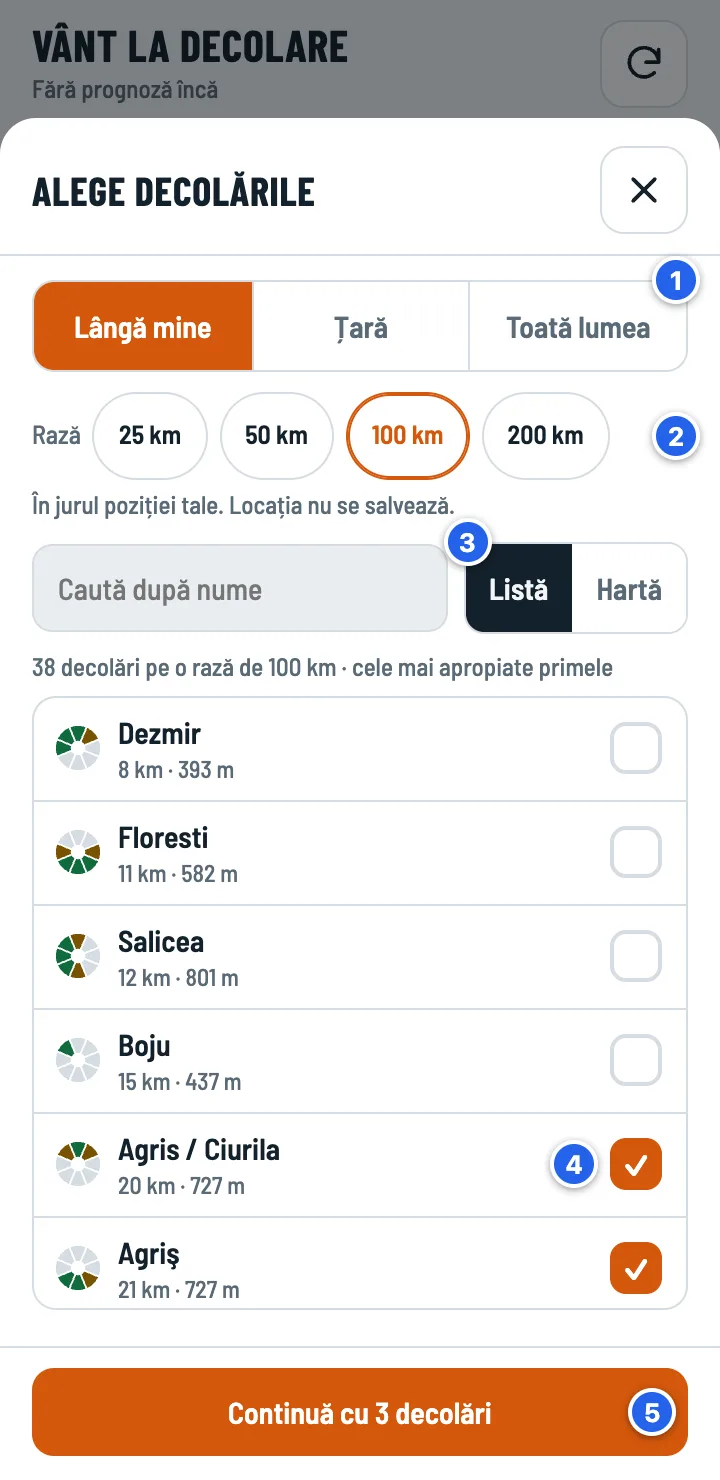
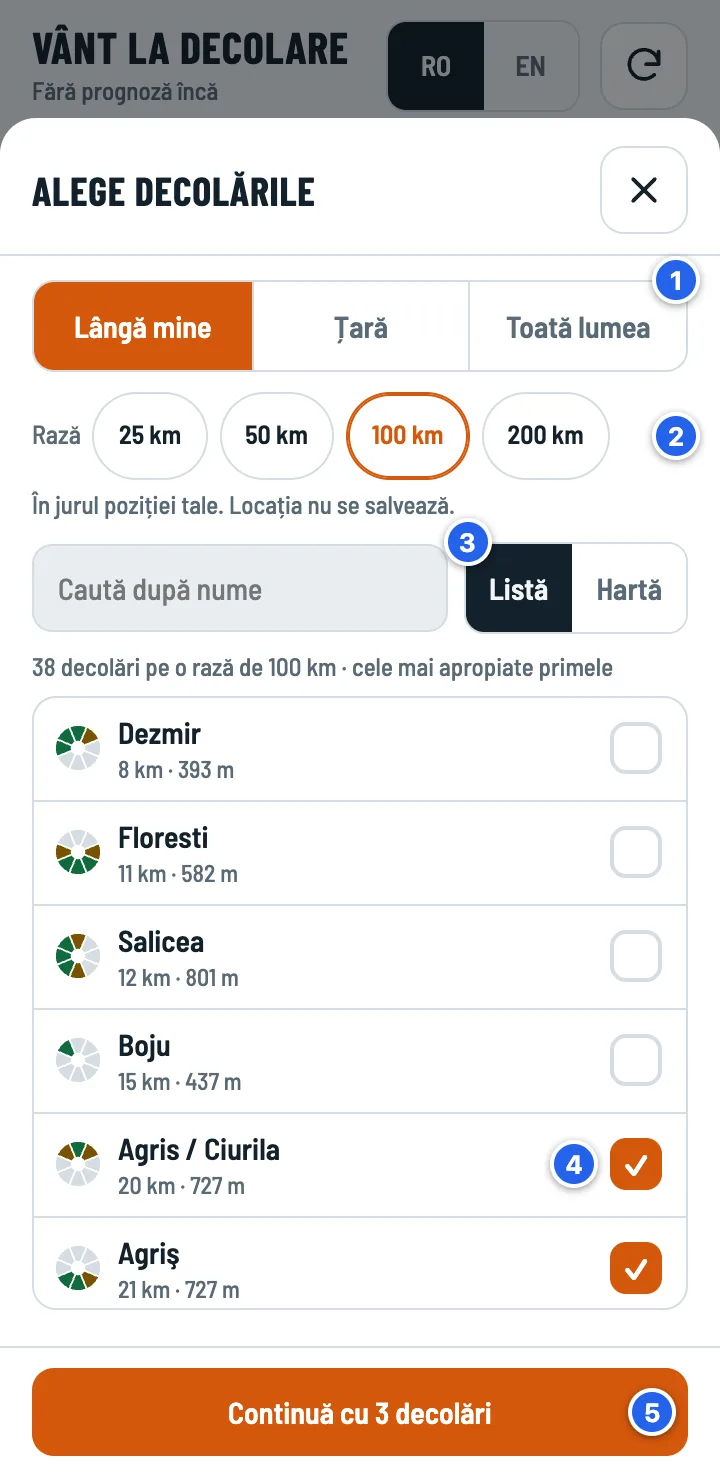
Limba se schimbă oricând de pe ecranul principal: RO | EN lângă ↻
Cerut: limba trebuie schimbată oricând din ecranul principal, nu doar din Setări sau din
ecranul de bun venit. Linkurile reîncarcă pagina cu ?lang= (alegerea se ține minte).
Ghidul: pas nou pe tablă + capturi refăcute.

Claude-Session: https://claude.ai/code/session_01AHnFa6r7pKe7n6SbnXpaSQ

diff --git a/docs/index.html b/docs/index.html
@@ -53,6 +53,7 @@ button{cursor:pointer}
 /* Bara de sus */
 .top{display:flex;align-items:center;gap:10px;padding:10px 16px 6px}
 .brand{flex:1;min-width:0}
+.toplang a{padding:0 11px;font-size:14px}
 .brand h1{margin:0;font:700 22px/1 var(--f-display);letter-spacing:.02em;text-transform:uppercase}
 .brand p{margin:3px 0 0;color:var(--muted);font-size:12.5px;white-space:nowrap;overflow:hidden;text-overflow:ellipsis}
 .iconbtn{display:grid;place-items:center;width:44px;height:44px;border-radius:12px;border:1px solid var(--line);background:var(--surface)}
@@ -323,6 +324,7 @@ details.hfbox .hf-in{padding:0 12px 12px}
       <h1>Vânt la Decolare</h1>
       <p id="status">Se încarcă prognoza…</p>
     </div>
+    <div class="seg2 lang toplang" id="topLang" role="group" aria-label="Limba"><a href="?lang=ro" data-lang="ro" lang="ro" aria-label="Română">RO</a><a href="?lang=en" data-lang="en" lang="en" aria-label="English">EN</a></div>
     <button class="iconbtn" id="refresh" aria-label="Reîmprospătează prognoza"><svg viewBox="0 0 24 24"><path d="M20 11a8 8 0 1 0-2.3 5.7"/><path d="M20 4v7h-7"/></svg></button>
   </div>
   <div class="banner" id="banner" hidden></div>
@@ -527,9 +529,9 @@ function translateStatic(){
     for (const a of document.querySelectorAll('a[href^="ghid.html"]')) a.href = a.getAttribute('href').replace('ghid.html', GUIDE);
   }
   $('#ver').textContent = t('Versiunea {v}', {v: VERSION});
-  for (const a of document.querySelectorAll('#langSeg a')) a.setAttribute('aria-current', String(a.dataset.lang === LANG));
+  for (const a of document.querySelectorAll('#langSeg a, #topLang a')) a.setAttribute('aria-current', String(a.dataset.lang === LANG));
 }
-const VERSION = '63ddbeb';
+const VERSION = '6347895';
 const SKY_ICONS = {"sun":[{"d":"M12 7.5 A4.5 4.5 0 1 0 12 16.5 A4.5 4.5 0 1 0 12 7.5 Z","r":"sun","f":1},{"d":"M12 2 V4.2 M12 19.8 V22 M2 12 H4.2 M19.8 12 H22 M4.9 4.9 L6.5 6.5 M17.5 17.5 L19.1 19.1 M4.9 19.1 L6.5 17.5 M17.5 6.5 L19.1 4.9","r":"sun"}],"moon":[{"d":"M19.5 14.6 A7.8 7.8 0 1 1 9.4 4.5 A6.2 6.2 0 0 0 19.5 14.6 Z","r":"ink"}],"partly":[{"d":"M6.03 10.77 A3.5 3.5 0 1 1 12 8.3","r":"sun"},{"d":"M8.5 2.6 V3.9 M2.6 8.3 H3.9 M4.3 4.1 L5.2 5 M12.7 4.1 L11.8 5","r":"sun"},{"d":"M9.5 20 H17.7 A3.4 3.4 0 0 0 18.2 13.23 A4.6 4.6 0 0 0 9.3 12.3 A3.85 3.85 0 0 0 9.5 20 Z","r":"ink"}],"cloud":[{"d":"M7 19 H17.2 A4.3 4.3 0 0 0 17.8 10.44 A5.8 5.8 0 0 0 6.6 9.9 A4.6 4.6 0 0 0 7 19 Z","r":"ink"}],"overcast":[{"d":"M5.2 14.2 A3.6 3.6 0 0 1 6.4 7.3 A5 5 0 0 1 15.6 6.4","r":"ink"},{"d":"M8 20.5 H17.5 A3.6 3.6 0 0 0 18 13.33 A5 5 0 0 0 8.2 12.4 A4.05 4.05 0 0 0 8 20.5 Z","r":"ink"}],"cumulus":[{"d":"M3.5 19 H20.5","r":"ink"},{"d":"M5.5 19 A3 3 0 0 1 6.5 13.2 A3.6 3.6 0 0 1 11.5 8.5 A4 4 0 0 1 18 12 A3.6 3.6 0 0 1 18.5 19","r":"ink"},{"d":"M20 3.6 A1.9 1.9 0 1 0 20 7.4 A1.9 1.9 0 1 0 20 3.6 Z","r":"sun","f":1}],"cirrus":[{"d":"M2.5 11 C6.5 8 10 13 15 10 M4.5 15.5 C8.5 13 12.5 17.5 20.5 14 M2.5 20 C5.5 18.5 8.5 21 12.5 19.5","r":"ink"},{"d":"M18 3.6 A2.3 2.3 0 1 0 18 8.2 A2.3 2.3 0 1 0 18 3.6 Z","r":"sun","f":1}],"fog":[{"d":"M4 7 H20 M6 11 H18 M4 15 H20 M7 19 H17","r":"ink"}],"rain":[{"d":"M7 15 H17.2 A4.3 4.3 0 0 0 17.8 6.44 A5.8 5.8 0 0 0 6.6 5.9 A4.6 4.6 0 0 0 7 15 Z","r":"ink"},{"d":"M8.5 18 L7.5 21 M12.5 18 L11.5 21 M16.5 18 L15.5 21","r":"water"}],"thunder":[{"d":"M7 15 H17.2 A4.3 4.3 0 0 0 17.8 6.44 A5.8 5.8 0 0 0 6.6 5.9 A4.6 4.6 0 0 0 7 15 Z","r":"ink"},{"d":"M13 14.5 L10.5 18.5 H13.5 L11.5 22.5","r":"sun"}],"snow":[{"d":"M7 15 H17.2 A4.3 4.3 0 0 0 17.8 6.44 A5.8 5.8 0 0 0 6.6 5.9 A4.6 4.6 0 0 0 7 15 Z","r":"ink"},{"d":"M8 18.5 V18.6 M12 19.5 V19.6 M16 18.5 V18.6 M10 22 V22.1 M14 22 V22.1","r":"water"}]};
 let HOLFUY = [];   // stațiile Holfuy din toată lumea, din holfuy.json (încărcat la pornire)
 const GOOGLE_CLIENT_ID = "649701687476-dkeevrquqrkupso4aeupqbou5lrfkrkl.apps.googleusercontent.com";

diff --git a/docs/ghid.html b/docs/ghid.html
@@ -117,7 +117,7 @@ footer{margin-top:44px;padding-top:20px;border-top:1px solid var(--line);color:v
     <div class="step">
       <a class="shot" href="img/guide/ro/start.webp"><img src="img/guide/ro/start.webp" width="720" height="1480" loading="lazy" decoding="async" alt="Ecranul de bun venit, cu alegerea limbii și butoanele Decolări lângă mine, Alege pe hartă și Alege țara"></a>
       <ol class="marks">
-        <li><b>Limba</b>: română sau engleză. O poți schimba oricând din <b>Setări</b>.</li>
+        <li><b>Limba</b>: română sau engleză. O poți schimba oricând: sus, pe ecranul principal (<b>RO / EN</b>), sau din <b>Setări</b>.</li>
         <li><b>Decolări lângă mine</b>: decolările din jurul tău, cele mai apropiate primele. Telefonul îți cere permisiunea pentru locație; poziția nu se salvează și nu pleacă nicăieri.</li>
         <li><b>Alege pe hartă</b>: aceleași decolări, pe hartă.</li>
         <li><b>Alege țara</b>, dacă nu vrei să dai locația sau zbori în altă parte.</li>
@@ -156,6 +156,7 @@ footer{margin-top:44px;padding-top:20px;border-top:1px solid var(--line);color:v
         <li><b>Ora curentă.</b> Azi, tabla începe cu ora curentă; orele trecute rămân la stânga, estompate. Glisează orizontal pentru celelalte ore. În altă zi, tabla începe de la prima oră favorabilă.</li>
         <li><b>O oră la o decolare.</b> Atinge-o ca să vezi <a href="#hour">de ce are culoarea asta</a>.</li>
         <li><b>↻</b> descarcă din nou prognoza; sus scrie când a fost actualizată. Prognoza se reîmprospătează și singură când deschizi sau revii în aplicație, dacă e mai veche de 30 de minute.</li>
+        <li><b>RO / EN</b>: limba aplicației, oricând.</li>
         <li>Navigarea: <b>Prognoză</b> (tabla), <b>Jurnal</b>, <b>Situri</b>, <b>Setări</b> și <b>Ajutor</b>: pe scurt, cum citești tabla, plus acest ghid. Dedesubt, cu litere mici: <a href="confidentialitate.html">Confidențialitate</a> și <a href="termeni.html">Termeni</a>.</li>
       </ol>
     </div>

diff --git a/docs/guide.html b/docs/guide.html
@@ -117,7 +117,7 @@ footer{margin-top:44px;padding-top:20px;border-top:1px solid var(--line);color:v
     <div class="step">
       <a class="shot" href="img/guide/en/start.webp"><img src="img/guide/en/start.webp" width="720" height="1480" loading="lazy" decoding="async" alt="The welcome screen, with the language switch and the buttons Takeoffs near me, Pick on the map and Pick a country"></a>
       <ol class="marks">
-        <li><b>Language</b>: Romanian or English. You can change it any time in <b>Settings</b>.</li>
+        <li><b>Language</b>: Romanian or English. You can change it any time: at the top of the main screen (<b>RO / EN</b>) or in <b>Settings</b>.</li>
         <li><b>Takeoffs near me</b>: the takeoffs around you, nearest first. Your phone asks for location permission; your position is not stored and not sent anywhere.</li>
         <li><b>Pick on the map</b>: the same takeoffs, on a map.</li>
         <li><b>Pick a country</b>, if you'd rather not share your location or you fly somewhere else.</li>
@@ -156,6 +156,7 @@ footer{margin-top:44px;padding-top:20px;border-top:1px solid var(--line);color:v
         <li><b>The current hour.</b> Today, the board starts at the current hour; past hours stay on the left, faded. Swipe sideways for the other hours. On other days, the board starts at the first favourable hour.</li>
         <li><b>One hour at one takeoff.</b> Tap it to see <a href="#hour">why it has this colour</a>.</li>
         <li><b>↻</b> downloads the forecast again; the line at the top says when it was updated. The forecast also refreshes by itself when you open or return to the app, if it is older than 30 minutes.</li>
+        <li><b>RO / EN</b>: the app language, any time.</li>
         <li>Navigation: <b>Forecast</b> (the board), <b>Log</b>, <b>Sites</b>, <b>Settings</b> and <b>Help</b>: how to read the board in short, plus this guide. Below them, in small print: <a href="privacy.html">Privacy</a> and <a href="terms.html">Terms</a>.</li>
       </ol>
     </div>

diff --git a/src/index.html b/src/index.html
@@ -53,6 +53,7 @@ button{cursor:pointer}
 /* Bara de sus */
 .top{display:flex;align-items:center;gap:10px;padding:10px 16px 6px}
 .brand{flex:1;min-width:0}
+.toplang a{padding:0 11px;font-size:14px}
 .brand h1{margin:0;font:700 22px/1 var(--f-display);letter-spacing:.02em;text-transform:uppercase}
 .brand p{margin:3px 0 0;color:var(--muted);font-size:12.5px;white-space:nowrap;overflow:hidden;text-overflow:ellipsis}
 .iconbtn{display:grid;place-items:center;width:44px;height:44px;border-radius:12px;border:1px solid var(--line);background:var(--surface)}
@@ -323,6 +324,7 @@ details.hfbox .hf-in{padding:0 12px 12px}
       <h1>Vânt la Decolare</h1>
       <p id="status">Se încarcă prognoza…</p>
     </div>
+    <div class="seg2 lang toplang" id="topLang" role="group" aria-label="Limba"><a href="?lang=ro" data-lang="ro" lang="ro" aria-label="Română">RO</a><a href="?lang=en" data-lang="en" lang="en" aria-label="English">EN</a></div>
     <button class="iconbtn" id="refresh" aria-label="Reîmprospătează prognoza"><svg viewBox="0 0 24 24"><path d="M20 11a8 8 0 1 0-2.3 5.7"/><path d="M20 4v7h-7"/></svg></button>
   </div>
   <div class="banner" id="banner" hidden></div>
@@ -527,7 +529,7 @@ function translateStatic(){
     for (const a of document.querySelectorAll('a[href^="ghid.html"]')) a.href = a.getAttribute('href').replace('ghid.html', GUIDE);
   }
   $('#ver').textContent = t('Versiunea {v}', {v: VERSION});
-  for (const a of document.querySelectorAll('#langSeg a')) a.setAttribute('aria-current', String(a.dataset.lang === LANG));
+  for (const a of document.querySelectorAll('#langSeg a, #topLang a')) a.setAttribute('aria-current', String(a.dataset.lang === LANG));
 }
 const VERSION = '__VERSION__';
 const SKY_ICONS = __SKY_ICONS__;
